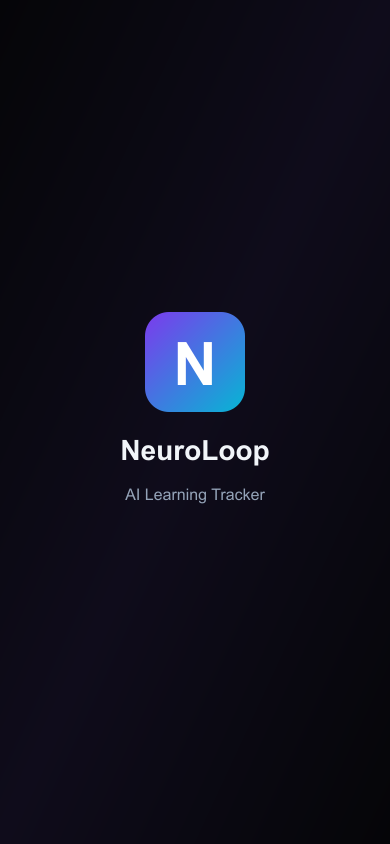
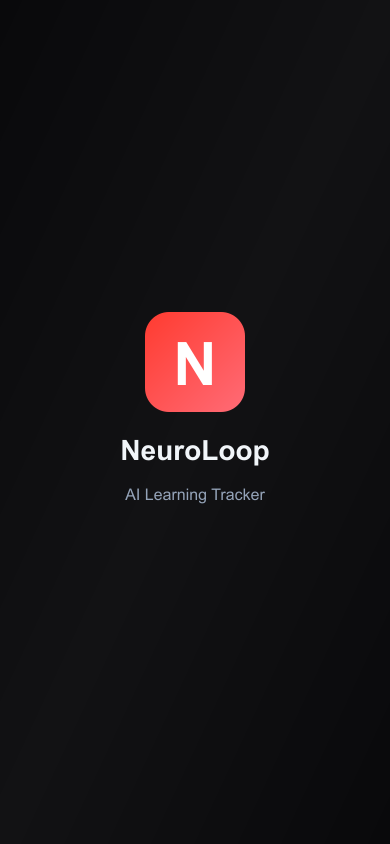
fix: update InstallBanner UI colors and PWA theme to match NeuroLoop brand theme

Changed region(s): [[0.3692, 0.3697, 0.6462, 0.4929]]

diff --git a/client/src/components/InstallBanner.jsx b/client/src/components/InstallBanner.jsx
@@ -1,4 +1,5 @@
 import { useState, useEffect } from 'react'
+import NeuroLoopLogo from './NeuroLoopLogo'
 
 export default function InstallBanner() {
   const [deferredPrompt, setDeferredPrompt] = useState(null)
@@ -59,8 +60,46 @@ export default function InstallBanner() {
     <>
       <style>{`
         @keyframes slideUp {
-          from { transform: translateY(100%); opacity: 0; }
-          to { transform: translateY(0); opacity: 1; }
+          from { transform: translate(-50%, 100%); opacity: 0; }
+          to { transform: translate(-50%, 0); opacity: 1; }
+        }
+        .pwa-install-btn {
+          padding: 8px 18px;
+          background: linear-gradient(135deg, #ff3b30, #e02e24);
+          color: #ffffff;
+          border: none;
+          border-radius: 9999px;
+          font-size: 13px;
+          font-weight: 600;
+          cursor: pointer;
+          white-space: nowrap;
+          box-shadow: 0 4px 16px rgba(255, 59, 48, 0.35);
+          transition: all 0.2s ease;
+        }
+        .pwa-install-btn:hover {
+          transform: translateY(-1px);
+          box-shadow: 0 6px 20px rgba(255, 59, 48, 0.5);
+          background: linear-gradient(135deg, #ff5247, #ff3b30);
+        }
+        .pwa-install-btn:active {
+          transform: translateY(0);
+        }
+        .pwa-dismiss-btn {
+          padding: 6px 18px;
+          background: rgba(255, 255, 255, 0.04);
+          color: #a1a1aa;
+          border: 1px solid rgba(255, 59, 48, 0.2);
+          border-radius: 9999px;
+          font-size: 12px;
+          font-weight: 500;
+          cursor: pointer;
+          white-space: nowrap;
+          transition: all 0.2s ease;
+        }
+        .pwa-dismiss-btn:hover {
+          background: rgba(255, 59, 48, 0.1);
+          color: #f5f5f7;
+          border-color: rgba(255, 59, 48, 0.4);
         }
       `}</style>
       <div style={{
@@ -70,38 +109,50 @@ export default function InstallBanner() {
         transform: 'translateX(-50%)',
         width: 'calc(100% - 32px)',
         maxWidth: '480px',
-        background: '#111118',
-        border: '1px solid rgba(124,58,237,0.3)',
-        borderRadius: '16px',
+        background: '#121214',
+        backdropFilter: 'blur(16px)',
+        WebkitBackdropFilter: 'blur(16px)',
+        border: '1px solid rgba(255, 59, 48, 0.3)',
+        borderRadius: '20px',
         padding: '16px 20px',
         zIndex: 9999,
-        boxShadow: '0 8px 32px rgba(0,0,0,0.4)',
-        animation: 'slideUp 0.4s ease both',
+        boxShadow: '0 12px 36px rgba(0, 0, 0, 0.6), 0 0 24px rgba(255, 59, 48, 0.15)',
+        animation: 'slideUp 0.4s cubic-bezier(0.16, 1, 0.3, 1) both',
         display: 'flex',
         alignItems: 'center',
         gap: '14px'
       }}>
         {/* App icon */}
         <div style={{
-          width: '48px', height: '48px',
-          borderRadius: '12px',
-          background: 'linear-gradient(135deg, #7c3aed, #06b6d4)',
-          display: 'flex', alignItems: 'center', justifyContent: 'center',
+          width: '50px',
+          height: '50px',
+          borderRadius: '14px',
+          background: 'linear-gradient(135deg, rgba(255, 59, 48, 0.15), rgba(255, 107, 118, 0.05))',
+          border: '1px solid rgba(255, 59, 48, 0.35)',
+          display: 'flex',
+          alignItems: 'center',
+          justifyContent: 'center',
           flexShrink: 0,
-          fontSize: '24px', fontWeight: '700', color: 'white',
-          fontFamily: 'Arial, sans-serif'
-        }}>N</div>
+          boxShadow: '0 4px 14px rgba(255, 59, 48, 0.2)'
+        }}>
+          <NeuroLoopLogo size={32} showWordmark={false} />
+        </div>
 
         {/* Text */}
         <div style={{ flex: 1 }}>
           <div style={{
-            fontSize: '14px', fontWeight: '600',
-            color: '#f1f5f9', marginBottom: '2px'
+            fontSize: '14px',
+            fontWeight: '600',
+            color: '#f5f5f7',
+            marginBottom: '2px',
+            letterSpacing: '-0.01em'
           }}>
             Install NeuroLoop
           </div>
           <div style={{
-            fontSize: '12px', color: '#64748b', lineHeight: '1.4'
+            fontSize: '12px',
+            color: '#a1a1aa',
+            lineHeight: '1.4'
           }}>
             Add to your home screen for quick access to your learning dashboard.
           </div>
@@ -111,32 +162,13 @@ export default function InstallBanner() {
         <div style={{ display: 'flex', flexDirection: 'column', gap: '6px', flexShrink: 0 }}>
           <button
             onClick={handleInstall}
-            style={{
-              padding: '8px 16px',
-              background: 'linear-gradient(135deg, #7c3aed, #2563eb)',
-              color: 'white',
-              border: 'none',
-              borderRadius: '8px',
-              fontSize: '13px',
-              fontWeight: '500',
-              cursor: 'pointer',
-              whiteSpace: 'nowrap'
-            }}
+            className="pwa-install-btn"
           >
             Install
           </button>
           <button
             onClick={handleDismiss}
-            style={{
-              padding: '6px 16px',
-              background: 'transparent',
-              color: '#64748b',
-              border: '1px solid rgba(255,255,255,0.08)',
-              borderRadius: '8px',
-              fontSize: '12px',
-              cursor: 'pointer',
-              whiteSpace: 'nowrap'
-            }}
+            className="pwa-dismiss-btn"
           >
             Not now
           </button>

diff --git a/client/index.html b/client/index.html
@@ -13,10 +13,10 @@
     <link rel="apple-touch-icon" href="/icon-192.png"/>
 
     <!-- Theme color for browser chrome -->
-    <meta name="theme-color" content="#7c3aed"/>
+    <meta name="theme-color" content="#ff3b30"/>
 
     <!-- Windows tile -->
-    <meta name="msapplication-TileColor" content="#7c3aed"/>
+    <meta name="msapplication-TileColor" content="#ff3b30"/>
     <meta name="msapplication-TileImage" content="/icon-192.png"/>
 
     <!-- Viewport — important for mobile app feel -->
